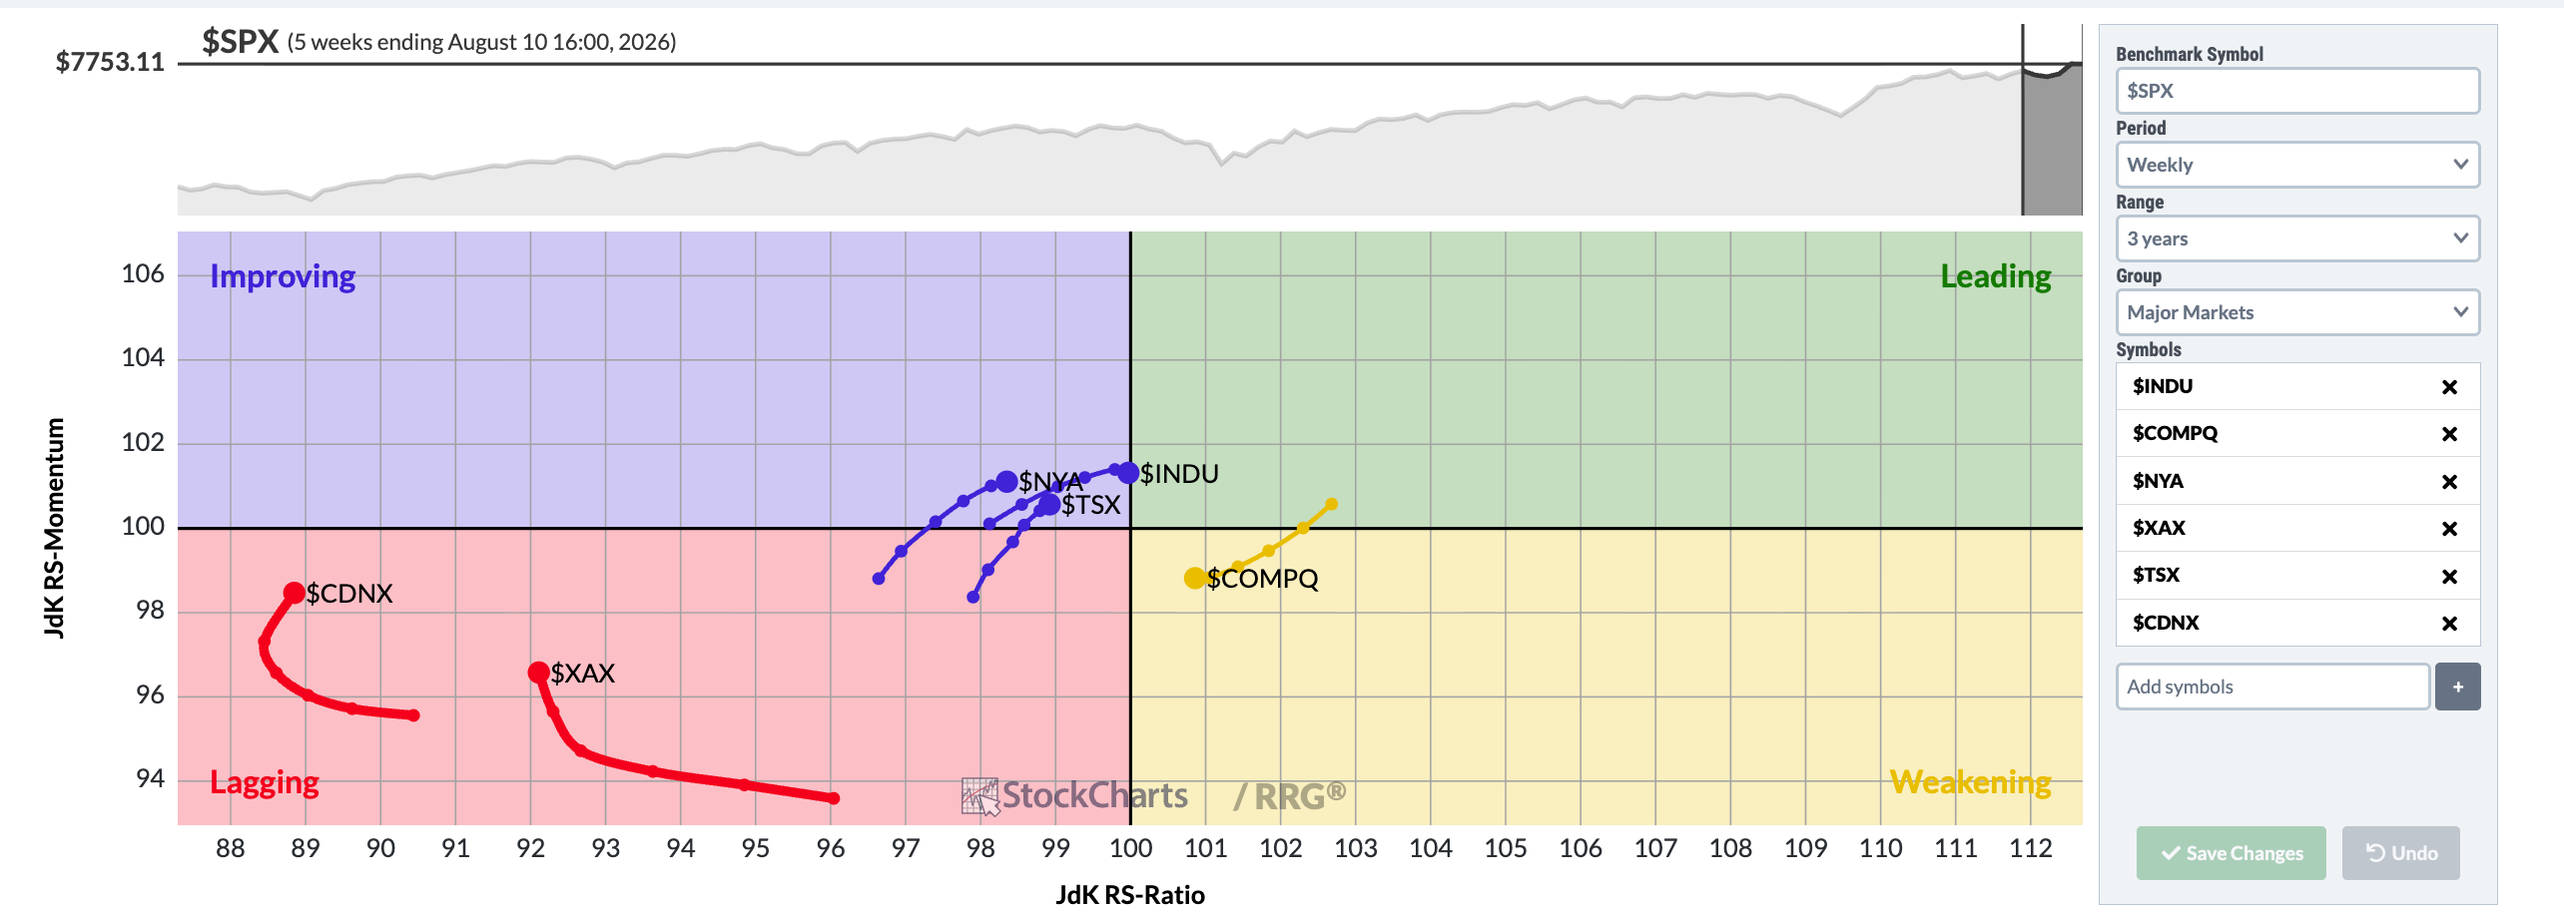
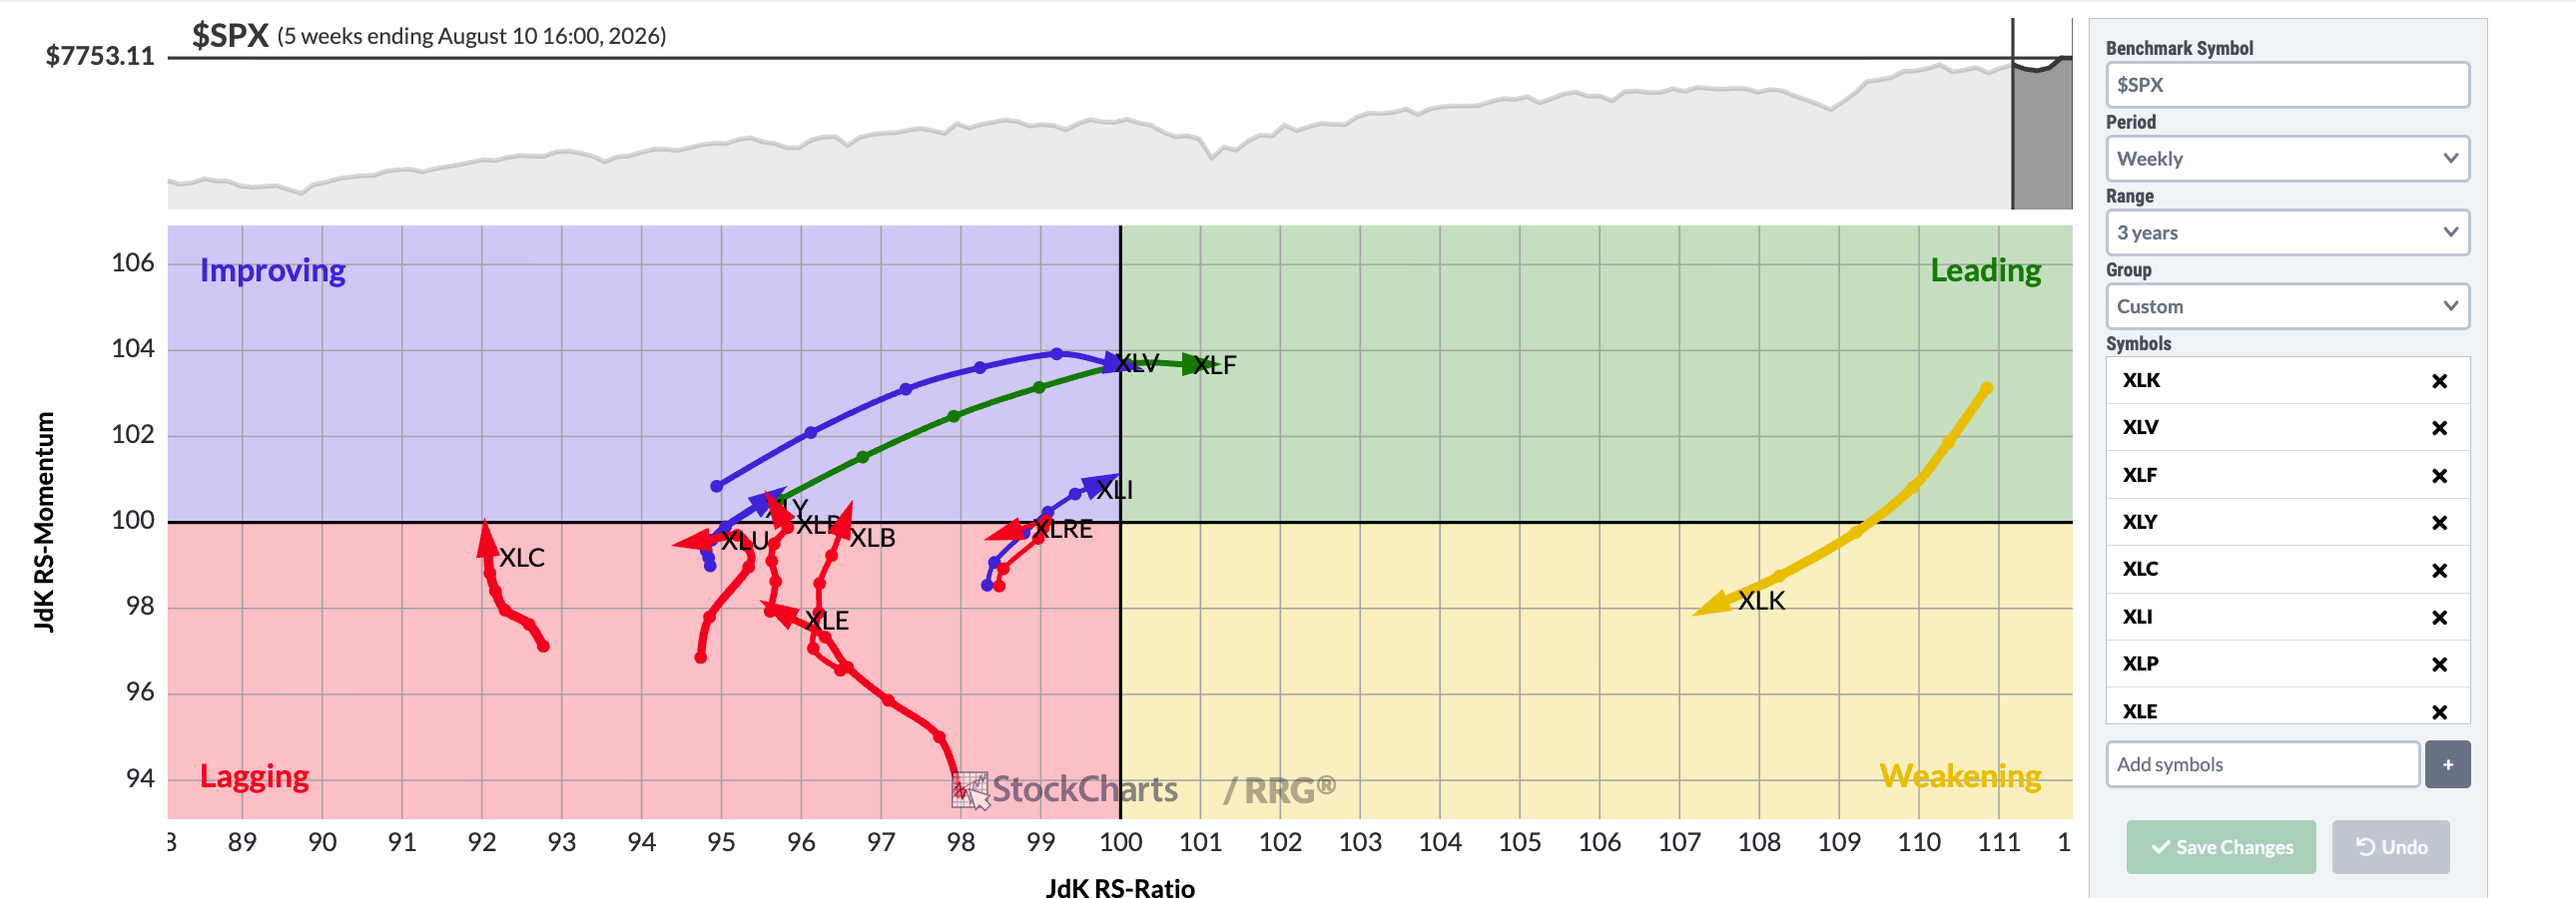
RRG: swap in publisher's weekly sector capture, final alt alignment

diff --git a/m06-c02.md b/m06-c02.md
@@ -48,9 +48,9 @@ The two axes cut the map into four **quadrants** (a quadrant is one of four part
 - **Lagging** (bottom left): losing to the benchmark, and getting worse. Out of form and out of luck.
 - **Improving** (top left): still losing to the benchmark, but catching up. The underdog finding form.
 
-![RRG of the big market indices, weekly, three years of history, settings panel shown]({{ "/assets/shots/rrg-sectors-weekly.png" | relative_url }})
+![The S&P sector ETFs on the weekly RRG, three years of history, settings panel shown]({{ "/assets/shots/rrg-sectors-weekly.png" | relative_url }})
 *Chart courtesy of StockCharts.com. RRG and Relative Rotation Graphs are registered trademarks of RRG Research.*
-Notice how the big indices, the Dow, the Nasdaq Composite, the NYSE Composite and their cousins, each sit in a coloured quadrant around the centre: the S&P 500 itself. The settings panel on the right shows the recipe: benchmark $SPX, weekly period, three year range.
+Notice how the S&P sector ETFs, the funds tracking sectors like technology, financials and healthcare, each sit in a coloured quadrant around the centre: the S&P 500 itself. In this capture the financials and healthcare funds sit in Leading, technology has cooled into Weakening with a long tail behind it, and energy sits in Lagging. The settings panel on the right shows the recipe: benchmark $SPX, weekly period, three year range.
 
 ## Why "rotation"?
 
@@ -58,7 +58,7 @@ Watch the map over a few weeks and something lovely appears: stocks and sectors 
 
 ![The S&P sector ETFs on the daily RRG, one year of history, settings panel shown]({{ "/assets/shots/rrg-sectors-daily.png" | relative_url }})
 *Chart courtesy of StockCharts.com. RRG and Relative Rotation Graphs are registered trademarks of RRG Research.*
-This second view swaps the big indices for the S&P sector ETFs, measured against the S&P 500 on the faster daily timeframe over a one year range; the panel shows the recipe: benchmark $SPX, daily period. The window changes where each name sits: the timeframe is part of the message.
+This second view keeps the same S&P sector ETFs but swaps the timeframe: the faster daily setting over a one year range, still measured against the S&P 500; the panel shows the recipe: benchmark $SPX, daily period. The window changes where each name sits: the timeframe is part of the message.
 
 <div class="try" markdown="1">
 **Try it yourself**

diff --git a/m06-c03.md b/m06-c03.md
@@ -56,9 +56,9 @@ StockCharts lets you view RRGs on a **daily** timeframe (each step of the tail i
 
 Read the weekly first for the big picture, then the daily for detail. If they disagree, trust the slower one while you are learning.
 
-![The Major Markets map on the weekly RRG, three years of it]({{ "/assets/shots/rrg-sectors-weekly.png" | relative_url }})
+![The S&P sector ETFs on the weekly RRG, three years of history, settings panel shown]({{ "/assets/shots/rrg-sectors-weekly.png" | relative_url }})
 *Chart courtesy of StockCharts.com. RRG and Relative Rotation Graphs are registered trademarks of RRG Research.*
-Compare the calm of this weekly, three year view with the twitchier daily view above: the longer window smooths the tails, and a name's quadrant can differ between timeframes. Three years of tails show where each index has travelled from, not just where it sits.
+Same sectors, two timeframes: compare this weekly, three year view with the twitchier daily view above. The longer window smooths the tails, and a sector's quadrant can differ between timeframes, so do not be surprised if a name leads here and dithers there. Three years of tails show where each sector has travelled from, not just where it sits.
 
 <div class="try" markdown="1">
 **Try it yourself**

diff --git a/m06-c06.md b/m06-c06.md
@@ -36,7 +36,7 @@ Sideways markets produce these constantly. The weekly view filters out some nois
 *Chart courtesy of StockCharts.com. RRG and Relative Rotation Graphs are registered trademarks of RRG Research.*
 Here is the daily sector view: the S&P sector ETFs measured against the S&P 500 over one year. Watch for tails that double back; on a daily chart those reversals are constant, and each would be a false alarm if treated as a fresh trend.
 
-![The Major Markets map, weekly, over three years, the calmer view]({{ "/assets/shots/rrg-sectors-weekly.png" | relative_url }})
+![The S&P sector ETFs on the weekly RRG, three years of history, the calmer view]({{ "/assets/shots/rrg-sectors-weekly.png" | relative_url }})
 *Chart courtesy of StockCharts.com. RRG and Relative Rotation Graphs are registered trademarks of RRG Research.*
 The weekly, three year view irons out much of that spinning, so the slower view deserves your first look, though even it cannot see the future.
 
